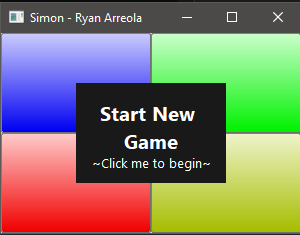
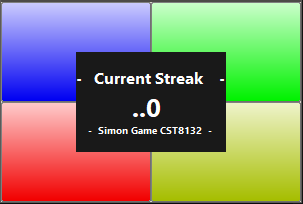
Configure label text on click

diff --git a/simon-game.cpp b/simon-game.cpp
@@ -29,20 +29,20 @@ int main()
     fm.caption("Simon - Ryan Arreola");
 
     //Defining buttons
-    button redBtn{ fm}; redBtn.bgcolor(color(255, 0, 0));
+    button redBtn{ fm }; redBtn.bgcolor(color(255, 0, 0));
     redBtn.events().click([&fm, &playerMi] {
         playerMi.play();
         });
-    button greenBtn{ fm}; greenBtn.bgcolor(color(0, 255, 0));
+    button greenBtn{ fm }; greenBtn.bgcolor(color(0, 255, 0));
     fm["GREEN"] << greenBtn; greenBtn.hide();
     greenBtn.events().click([&fm, &playerRe] {
         playerRe.play();
         });
-    button blueBtn{ fm}; blueBtn.bgcolor(color(0, 0, 255));
+    button blueBtn{ fm }; blueBtn.bgcolor(color(0, 0, 255));
     blueBtn.events().click([&fm, &playerDo] {
         playerDo.play();
         });
-    button yellowBtn{ fm}; yellowBtn.bgcolor(color(175, 200, 0));
+    button yellowBtn{ fm }; yellowBtn.bgcolor(color(175, 200, 0));
     yellowBtn.events().click([&fm, &playerFa] {
         playerFa.play();
         });
@@ -50,18 +50,39 @@ int main()
     //Layout management
     string row1 = "< <BLUE><GREEN> >";
     string row2 = "< <RED><YELLOW> >";
-    fm.div("vert "+row1.append(row2));
+    fm.div("vert " + row1.append(row2));
 
     //Assigning buttons
     fm["BLUE"] << blueBtn; blueBtn.hide();
-    fm["RED"] << redBtn; redBtn.hide();    
+    fm["RED"] << redBtn; redBtn.hide();
     fm["YELLOW"] << yellowBtn; yellowBtn.hide();
-    
+
     fm.bgcolor(color(0, 0, 0));
     fm.collocate();
 
     //Show the form
     fm.show();
-    
+    nested_form fm2(fm, rectangle(75, 50, 150, 100), appearance(0, 0, 0, 1, 0, 1, 0));
+    fm2.bgcolor(color(25, 25, 25));
+    fm2.fgcolor(color(25, 25, 25));
+
+    label lab{ fm2, "<size=15 top bold white max_limited>\n\tStart New \t\t\tGame</><size=10 white center>\n\t~Click me to begin~</>" };
+    lab.format(true);
+    lab.events().click([&fm2, &lab] {
+        string currentStreak = "<size=12 bold white>\n-   Current Streak    -</>";
+        string streak = "<size=20 bold white center>\n\t\t..0</>";
+        string simonText = "<size=8 bold white>\n\t\-  Simon Game CST8132  -</>";
+        lab.caption(currentStreak.append(streak).append(simonText));
+        });
+    lab.events().mouse_enter([&fm2] {
+        fm2.fgcolor(color(75, 75, 5));
+        });
+
+    button test{ fm2, "test", true }; test.bgcolor(color(255, 0, 0));
+    fm2.div("vert <text>");
+    fm2["text"] << lab;
+    fm2.collocate();
+    fm2.show();
+
     exec();
 }
